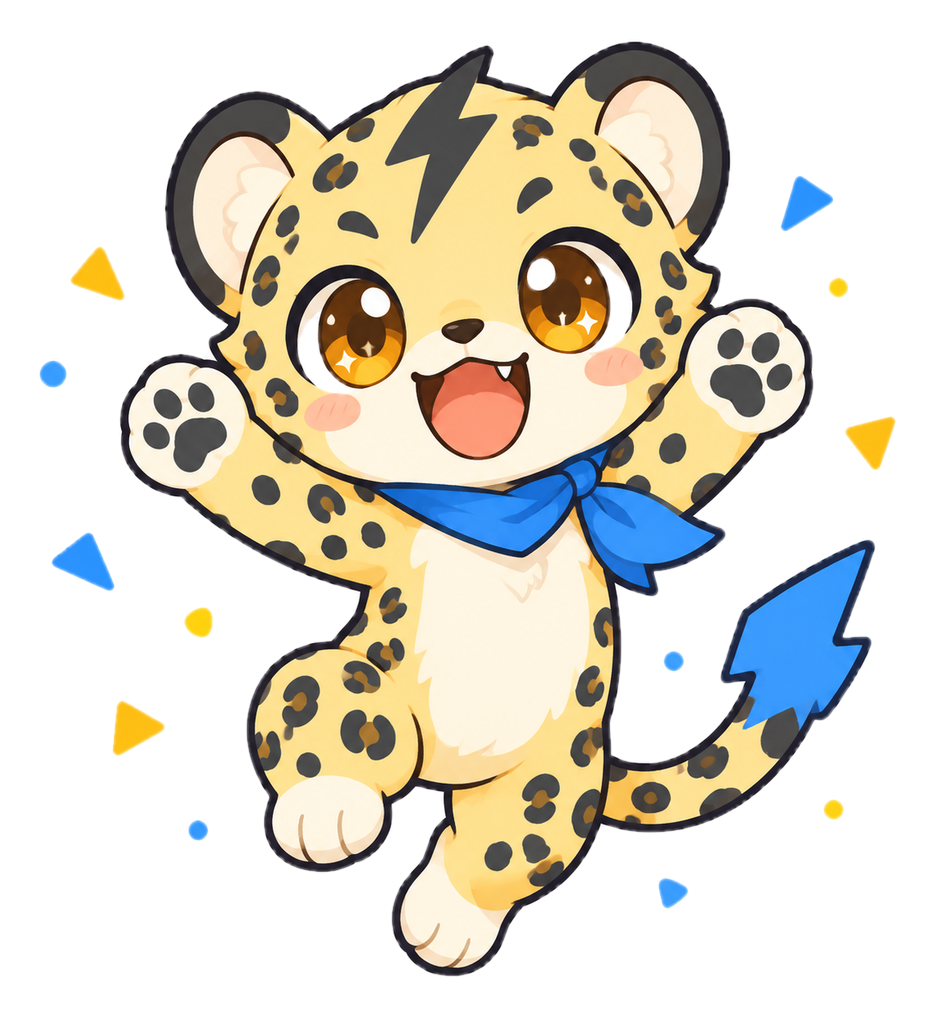
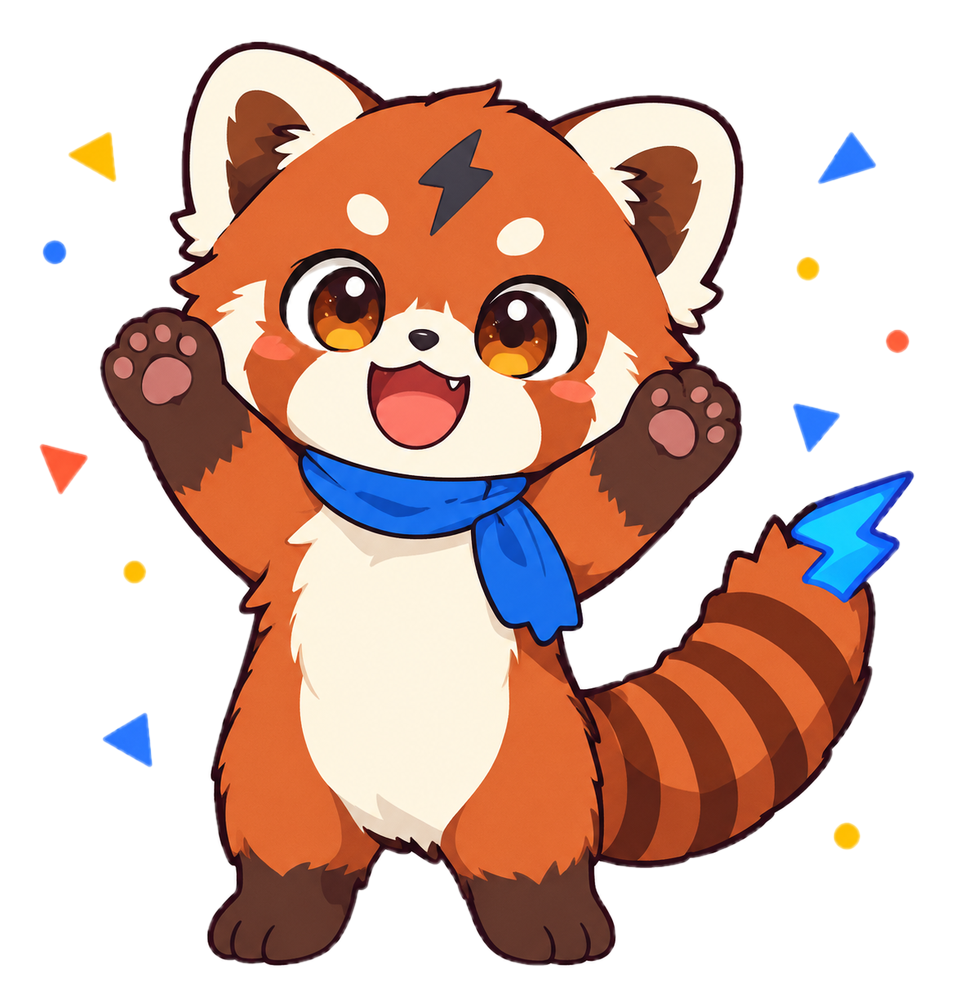
brand: 吉祥物重塑为小熊猫 Zanzi——图案规则化+矢量母版+符号阶梯
- 形象从猎豹换为小熊猫幼崽：无斑点、规则环纹尾、铁锈红+奶油白+深棕爪三色
- 三锚定特征迁移：额头闪电纹/电光蓝闪电尾尖(终端化替换整个尾尖)/颈间右侧结钴蓝围巾
- 新增 zanzi-vector.svg 矢量母版(图案规则权威定义)与 zanzi-glyph.svg 头标(png 256..32)
- 六姿态 AI 插画重生成(立绘/头像/奔跑/睡觉/举爪/敲码)，一致性显著提升
- VI.md：新增图案规则/二创约束/符号阶梯；横幅与色板卡随新形象重合
- 视觉验收：visual-judge 三轮，AI 线 5/5、矢量线修正 4 处后 2/2 全 pass

diff --git a/assets/brand/VI.md b/assets/brand/VI.md
@@ -19,11 +19,14 @@ assets/brand/
 │   ├── zan-logo-vertical.svg           竖排组合
 │   └── png/                 各尺寸 PNG（512…16）
 ├── mascot/                吉祥物 Zanzi（透明底 PNG）
+│   ├── zanzi-vector.svg      矢量母版（坐姿，图案规则的权威定义）
+│   ├── zanzi-glyph.svg       头标 glyph（符号阶梯最低档）
+│   ├── png/                  头标各尺寸 PNG（256…32）
 │   ├── zanzi-hero.png        立绘·挥手（主视觉）
 │   ├── zanzi-avatar(-round).png  头像（方/圆）
 │   ├── zanzi-run.png         奔跑（构建中/极速）
 │   ├── zanzi-sleep.png       睡觉（空闲/挂机）
-│   ├── zanzi-cheer.png       欢呼（发布/成功）
+│   ├── zanzi-cheer.png       欢呼·举手（发布/成功）
 │   └── zanzi-code.png        敲码（开发中）
 ├── banner/
 │   ├── zan-banner.png        GitHub README 横幅 1500×500
@@ -81,21 +84,34 @@ assets/brand/
 
 ## 5. 吉祥物 Zanzi（赞崽）
 
-**人设**：一只猎豹幼崽。像 AOT 编译一样快，像 ARC 一样可靠省心，
-像值语义一样不给你添乱。性格：精力充沛、干劲十足、偶尔编译通过后就地睡着。
+**人设**：一只小熊猫幼崽。像 AOT 编译一样快，像 ARC 一样可靠省心，
+像值语义一样不给你添乱。性格：精力充沛、干劲十足、编译通过就举爪欢呼，
+偶尔就地睡着。
 
 **三个锚定特征**（任何二创必须保留，缺一不可）：
 
-1. 额头深灰**闪电纹**
-2. 尾巴尖端**电光蓝闪电**（Volt 色相）
-3. 脖子上**钴蓝小围巾**（Zan Volt 同族色）
+1. 额头深色**闪电纹**
+2. 尾巴末端**电光蓝闪电**（Volt 色相，闪电形状盖在环纹尾末端）
+3. 脖子上**钴蓝围巾**（Zan Volt 同族色）
 
-标准姿态六张（见 `mascot/`）：hero 挥手 / run 奔跑 / sleep 睡觉 / cheer 欢呼 / code 敲码 / avatar 头像。
+**图案规则**（可复制性是这条设计的核心约束，二创请遵守）：
+
+- 身体**没有任何斑点/泪斑/杂纹**：铁锈红主色 + 奶油白脸颊/胸腹/眉点 + 深棕爪足，没了
+- 尾巴环纹**沿尾轴分布的规则横带**，插画版约 8 道，矢量母版（zanzi-vector.svg）5 环 + 电光蓝闪电终端（闪电替换整个尾尖，不是贴纸）
+- 额头两点奶白眉点 + 圆耳白边，位置对称、数量固定
+- 除围巾/闪电外**不得引入新颜色**；围巾为**颈间侧结**（结在角色右侧）
+
+标准姿态六张（见 `mascot/`）：hero 挥手 / run 奔跑 / sleep 睡觉 / cheer 举爪 / code 敲码 / avatar 头像。
+
+**符号阶梯**（从大到小逐级抽象，每级都可独立使用）：
+
+全身立绘 → 头像 → **头标 glyph**（zanzi-glyph.svg，favicon/群头像档）→ 额头闪电/尾尖闪电（可单独作装饰符号，与 logo 火花呼应）。
 
 **用法**：透明底 PNG 可直接叠在 Volt、Ink、Cream 底色上。
 建议按语境配姿态：构建中→run，发布成功→cheer，空闲→sleep，教程→code。
 
-**禁用**：拉伸比例 / 捎带改色相 / 去掉三个锚定特征 / 加上文字气泡或水印 / 用于与 Zan 无关的产品。
+**禁用**：拉伸比例 / 更换色相 / 去掉三个锚定特征 / 给身体加斑点或渐变毛色 /
+加上文字气泡或水印 / 用于与 Zan 无关的产品。
 
 ## 6. 重建
 
